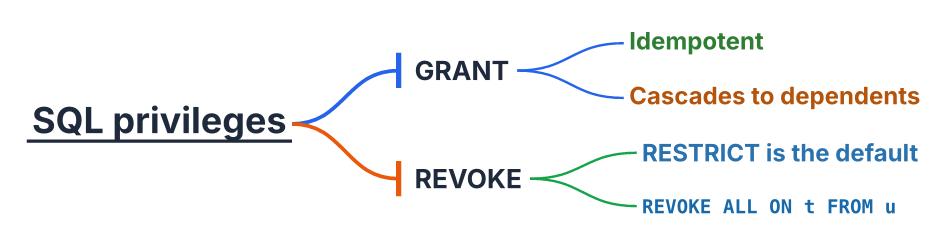
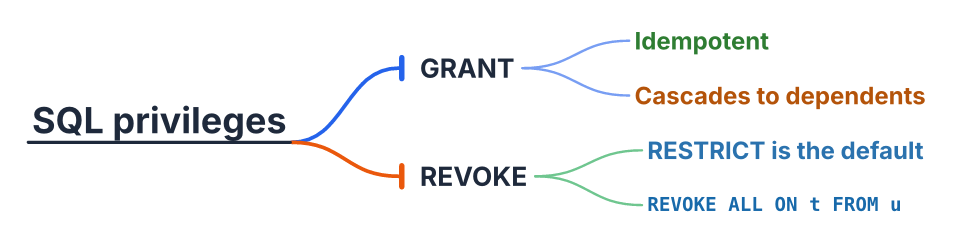
docs: 0.3.0 examples, gallery and README
Regenerates every image (all changed since 0.2.0), adds the style x edge
gallery and one example per new option, documents them in the README with a
Since column and the 0.3.0 changelog, and credits the sponsor.

diff --git a/README.md b/README.md
@@ -5,12 +5,23 @@ Horizontal mind map diagrams for [Typst](https://typst.app), built on
 the layout runs, so long labels never overlap — the common failure of
 fixed-spacing tree drawers.
 
-![A mind map with a filled root and rounded, colored nodes](https://raw.githubusercontent.com/pierryangelo/tidymind/v0.2.0/img/shallow.png)
+![A mind map with a filled root and rounded, colored nodes](https://raw.githubusercontent.com/pierryangelo/tidymind/v0.3.0/img/shallow.png)
+
+## What's new in 0.3.0
+
+- Three new styles: `technical`, `bar` and `block`.
+- `edge: "straight"` and `edge: "tapered"`, besides the curved edge.
+- `direction: "left"` and `direction: "both"`; `align-levels` lines up each depth in one column.
+- `surface` turns nodes into tinted cards; `markers: "role"` tags a node's role instead of recoloring it.
+- Four levels with their own look (root, branch, point, detail).
+- A label is no longer a paragraph: inside a justified, hyphenated document it used to split words and open gaps.
+
+![The same map in every style and edge](https://raw.githubusercontent.com/pierryangelo/tidymind/v0.3.0/img/gallery.png)
 
 ## Usage
 
 ````typ
-#import "@preview/tidymind:0.2.0": mindmap, node
+#import "@preview/tidymind:0.3.0": mindmap, node
 
 #mindmap(node([Root],
   node([Branch A], node([A1]), node([A2])),
@@ -28,7 +39,7 @@ This is the case that pushed the package into existence. Node sizes come from
 Typst's `measure`, so a label that wraps reserves the vertical band it actually
 needs — at any depth, with no manual offsets.
 
-![Two long labels wrapped at node-max-width, neither overlapping the other](https://raw.githubusercontent.com/pierryangelo/tidymind/v0.2.0/img/long_labels.png)
+![Two long labels wrapped at node-max-width, neither overlapping the other](https://raw.githubusercontent.com/pierryangelo/tidymind/v0.3.0/img/long_labels.png)
 
 ## Styles
 
@@ -41,7 +52,129 @@ color, and everything deeper is plain text. Hierarchy comes from size, weight
 and color instead of from frames — useful when the map sits inside a document
 and boxes would fight with the surrounding text.
 
-![The same tree in the outline style, with no boxes around any node](https://raw.githubusercontent.com/pierryangelo/tidymind/v0.2.0/img/outline.png)
+![The same tree in the outline style, with no boxes around any node](https://raw.githubusercontent.com/pierryangelo/tidymind/v0.3.0/img/outline.png)
+
+## Technical, bar and block
+
+Three more styles build on the same tree. The examples below all draw this one:
+
+````typ
+#let switching = node([Switching techniques],
+  node([Circuit switching],
+    node([Dedicated channel (`FDM` or `TDM`)]),
+    node([Three phases: setup, transfer, teardown]),
+    node([Idle time wastes fixed bandwidth], emphasis: "warning"),
+  ),
+  node([Message switching],
+    node([Whole-message store-and-forward], emphasis: "definition"),
+    node([No fragmentation]),
+  ),
+  node([Packet switching],
+    node([Statistical multiplexing]),
+    node([Modes],
+      node([Datagram (connectionless)]),
+      node([Virtual circuit], node([e.g. `MPLS`], emphasis: "example")),
+    ),
+  ),
+)
+````
+
+`style: "technical"` reads like a spec sheet: the root and each first-level
+branch sit on a rule that the edge runs into, branches are numbered, and points
+get a small square marker.
+
+````typ
+#mindmap(switching, style: "technical", markers: "role", align-levels: true)
+````
+
+![The technical style: numbered branches on colored rules, square markers on the points](https://raw.githubusercontent.com/pierryangelo/tidymind/v0.3.0/img/technical.png)
+
+`style: "bar"` draws the root and the branches over thick rules, and pairs with
+the tapered edge.
+
+````typ
+#mindmap(switching, style: "bar", edge: "tapered")
+````
+
+![The bar style: thick rules under the root and the branches, tapered edges](https://raw.githubusercontent.com/pierryangelo/tidymind/v0.3.0/img/bar.png)
+
+`style: "block"` fills the root and the first-level branches, numbered, and
+leaves everything deeper as plain text.
+
+````typ
+#mindmap(switching, style: "block", edge: "straight")
+````
+
+![The block style: filled, numbered branches and straight edges](https://raw.githubusercontent.com/pierryangelo/tidymind/v0.3.0/img/block.png)
+
+## Edges
+
+`edge` picks how a parent reaches its children: `"curved"` (the default),
+`"straight"`, or `"tapered"`, a filled ribbon that thins from the parent to the
+child. Any edge goes with any style; the gallery at the top shows every pair.
+Below the first level, edges are drawn lighter in every style but `"boxed"`.
+
+````typ
+#mindmap(switching, style: "bar", edge: "tapered")
+#mindmap(switching, style: "block", edge: "straight")
+````
+
+## Direction and columns
+
+`direction: "left"` grows the map to the left; `direction: "both"` sends the
+first branches to the right and the rest to the left, split so both sides carry
+about the same height. `align-levels: true` starts every depth at one column per
+side instead of right after its parent.
+
+````typ
+#mindmap(switching, style: "technical", direction: "both", markers: "role")
+````
+
+![The same map growing both ways, one branch to the right and two to the left](https://raw.githubusercontent.com/pierryangelo/tidymind/v0.3.0/img/both.png)
+
+## Surface
+
+`surface: "branches"` puts the first-level branches on tinted cards in their
+color; `surface: "all"` does the same for every node.
+
+````typ
+#mindmap(switching, style: "outline", surface: "all")
+````
+
+![The outline style with every node on a tinted card](https://raw.githubusercontent.com/pierryangelo/tidymind/v0.3.0/img/surface.png)
+
+## Role markers
+
+By default a node's `emphasis` recolors its label (see "Roles and branch
+colors" below). `markers: "role"` keeps the label in the normal ink and puts a
+short tag in front of it instead, in `mono-font`. `emphasis-labels` changes the
+tag text; a partial dictionary merges over the defaults (`key`, `warn`, `def.`,
+`e.g.`).
+
+````typ
+#mindmap(switching, style: "technical", markers: "role",
+  emphasis-labels: (warning: "watch out"))
+````
+
+![Role tags in front of the labels, one of them renamed to "watch out"](https://raw.githubusercontent.com/pierryangelo/tidymind/v0.3.0/img/markers.png)
+
+## Labels inside justified text
+
+A label is not a paragraph, so it ignores the document's `par(justify: true)`
+and hyphenation: a wrapped label breaks between words and keeps its normal
+spacing.
+
+````typ
+#set text(lang: "en", hyphenate: true)
+#set par(justify: true)
+#let long = node([Packet switching techniques],
+  node([Statistical multiplexing on demand]),
+  node([Fragmentation with pipeline parallelism]),
+)
+#mindmap(long, style: "outline", node-max-width: 3.2cm)
+````
+
+![Wrapped labels in a justified document, with no hyphenated words](https://raw.githubusercontent.com/pierryangelo/tidymind/v0.3.0/img/justified.png)
 
 ## Roles and branch colors
 
@@ -64,22 +197,30 @@ document says what a node *means*, and the package resolves the color.
 )
 ````
 
-![A map whose leaves are colored by role: definition, warning, highlight and example](https://raw.githubusercontent.com/pierryangelo/tidymind/v0.2.0/img/emphasis.png)
+![A map whose leaves are colored by role: definition, warning, highlight and example](https://raw.githubusercontent.com/pierryangelo/tidymind/v0.3.0/img/emphasis.png)
 
 ## Options
 
-| Option | Default | Meaning |
-|--------|---------|---------|
-| `style` | `"boxed"` | `"boxed"` or `"outline"` (see above) |
-| `palette` | 6 colors | color per first-level branch, cycled |
-| `font` | `"Inter"` | label font, or a fallback list |
-| `text-size` | `9pt` | base label size; the root and first level scale up from it |
-| `node-max-width` | `6cm` | max width before a label wraps |
-| `max-depth` | `6` | prune nodes deeper than this |
-| `h-gap` | `40pt` | horizontal gap between levels |
-| `v-gap` | `10pt` | minimum vertical gap between siblings |
-| `ink` | `(strong, soft)` | label colors; partial dictionaries merge over the defaults |
-| `emphasis-colors` | 4 roles | `highlight`, `warning`, `definition`, `example` |
+| Option | Default | Meaning | Since |
+|--------|---------|---------|-------|
+| `style` | `"boxed"` | `"boxed"`, `"outline"`, `"technical"`, `"bar"` or `"block"` | 0.2 |
+| `palette` | 6 colors | color per first-level branch, cycled | 0.1 |
+| `font` | `"Inter"` | label font, or a fallback list | 0.1 |
+| `text-size` | `9pt` | base label size; the root and first level scale up from it | 0.1 |
+| `node-max-width` | `6cm` | max width before a label wraps | 0.1 |
+| `root-max-width` | `auto` | the root's wrap width; `auto` is twice `node-max-width` | 0.3 |
+| `max-depth` | `6` | prune nodes deeper than this | 0.1 |
+| `h-gap` | `40pt` | horizontal gap between levels | 0.1 |
+| `v-gap` | `10pt` | minimum vertical gap between siblings | 0.1 |
+| `ink` | `(strong, soft)` | label colors; partial dictionaries merge over the defaults | 0.2 |
+| `emphasis-colors` | 4 roles | `highlight`, `warning`, `definition`, `example` | 0.2 |
+| `edge` | `"curved"` | `"curved"`, `"straight"` or `"tapered"` | 0.3 |
+| `direction` | `"right"` | `"right"`, `"left"` or `"both"` | 0.3 |
+| `align-levels` | `false` | each depth starts at one column per side | 0.3 |
+| `surface` | `"none"` | `"none"`, `"branches"` or `"all"` | 0.3 |
+| `markers` | `"none"` | `"none"` or `"role"` | 0.3 |
+| `emphasis-labels` | 4 roles | tag text per role, merged over the defaults | 0.3 |
+| `mono-font` | `"DejaVu Sans Mono"` | font of branch numbers and role tags | 0.3 |
 
 Labels take arbitrary Typst content, so markup and emoji work — pass a color
 emoji font in the `font` fallback list to get the second one:
@@ -123,14 +264,44 @@ sh examples/render.sh    # runs the asserts, then regenerates img/
 | [`visual_markdown_emoji`](examples/visual_markdown_emoji.typ) | markup and emoji in labels |
 | [`visual_single`](examples/visual_single.typ) | a lone root |
 | [`visual_empty`](examples/visual_empty.typ) | empty labels |
+| [`visual_gallery`](examples/visual_gallery.typ) | every style against every edge |
+| [`visual_technical`](examples/visual_technical.typ) | the `"technical"` style, role tags, `align-levels` |
+| [`visual_bar`](examples/visual_bar.typ) | the `"bar"` style with the tapered edge |
+| [`visual_block`](examples/visual_block.typ) | the `"block"` style with straight edges |
+| [`visual_both`](examples/visual_both.typ) | `direction: "both"` |
+| [`visual_surface`](examples/visual_surface.typ) | `surface: "all"` |
+| [`visual_markers`](examples/visual_markers.typ) | role tags with a renamed tag |
+| [`visual_justified`](examples/visual_justified.typ) | labels inside a justified, hyphenated document |
 
 ## Changelog
+
+**0.3.0** — adds the `technical`, `bar` and `block` styles, `edge`, `direction`,
+`align-levels`, `surface`, `markers`, `emphasis-labels`, `mono-font` and
+`root-max-width`, and a fourth level of styling. **Output changes:** a label no
+longer inherits the document's justification and hyphenation (a label inside a
+justified document stops splitting words), and in `"outline"` the first-level
+rule becomes a rounded capsule and the edges below the first level are drawn
+lighter. A root longer than `node-max-width` now wraps at up to twice that
+width (`root-max-width: auto`); pass `root-max-width` equal to `node-max-width`
+(e.g. `6cm`) for the old layout. Nodes now sit exactly at their layout position
+(a sub-point shift) and edges have round caps. `style: "boxed"` otherwise
+renders what 0.2.0 rendered.
 
 **0.2.0** — adds `style: "outline"`, the `branch` and `emphasis` attributes on
 `node`, and the `ink` / `emphasis-colors` options. The default output is
 unchanged: `style: "boxed"` renders exactly what 0.1.1 rendered.
 
 **0.1.1** — long labels wrap instead of overflowing their measured width.
+
+## Sponsor
+
+<a href="https://elitus.com.br"><picture>
+  <source media="(prefers-color-scheme: dark)" srcset="https://raw.githubusercontent.com/pierryangelo/tidymind/v0.3.0/img/elitus-dark.svg">
+  <img alt="Elitus" src="https://raw.githubusercontent.com/pierryangelo/tidymind/v0.3.0/img/elitus-light.svg" width="96">
+</picture></a>
+
+tidymind is developed with support from [Elitus](https://elitus.com.br)
+([@souelitus](https://instagram.com/souelitus) on Instagram).
 
 ## License
 
